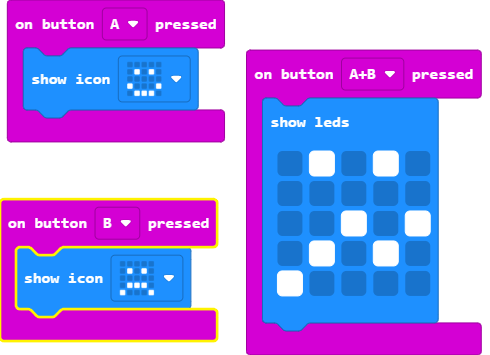
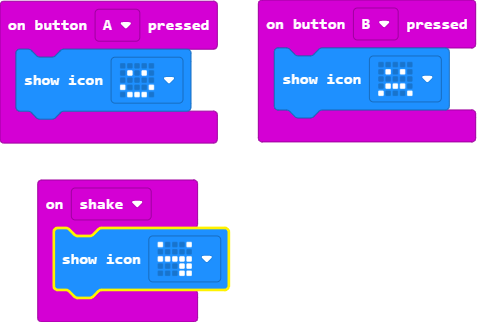
Get silly 😜

diff --git a/main.ts b/main.ts
@@ -1,15 +1,9 @@
 input.onButtonPressed(Button.A, function () {
     basic.showIcon(IconNames.Happy)
 })
-input.onButtonPressed(Button.AB, function () {
-    basic.showLeds(`
-        . # . # .
-        . . . . .
-        . . # . #
-        . # . # .
-        # . . . .
-        `)
-})
 input.onButtonPressed(Button.B, function () {
     basic.showIcon(IconNames.Sad)
+})
+input.onGesture(Gesture.Shake, function () {
+    basic.showIcon(IconNames.Silly)
 })
